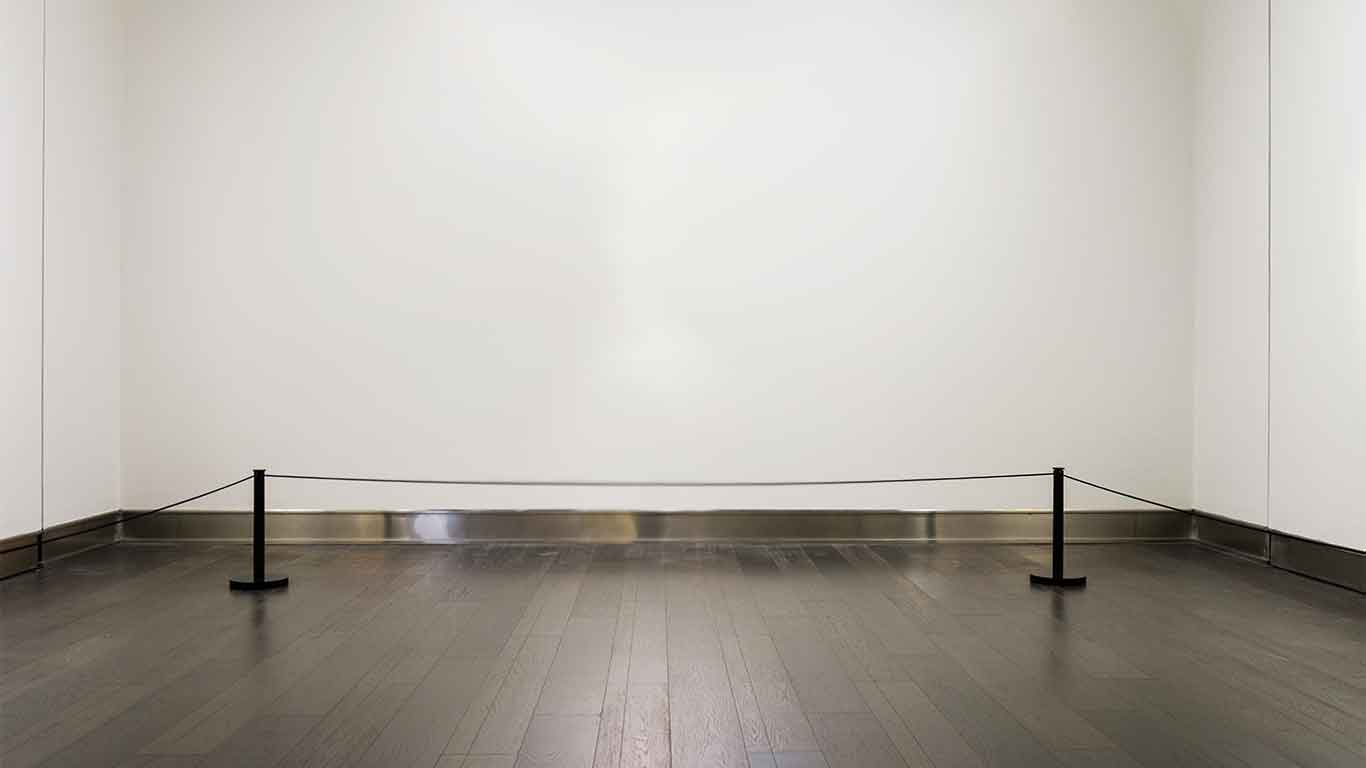
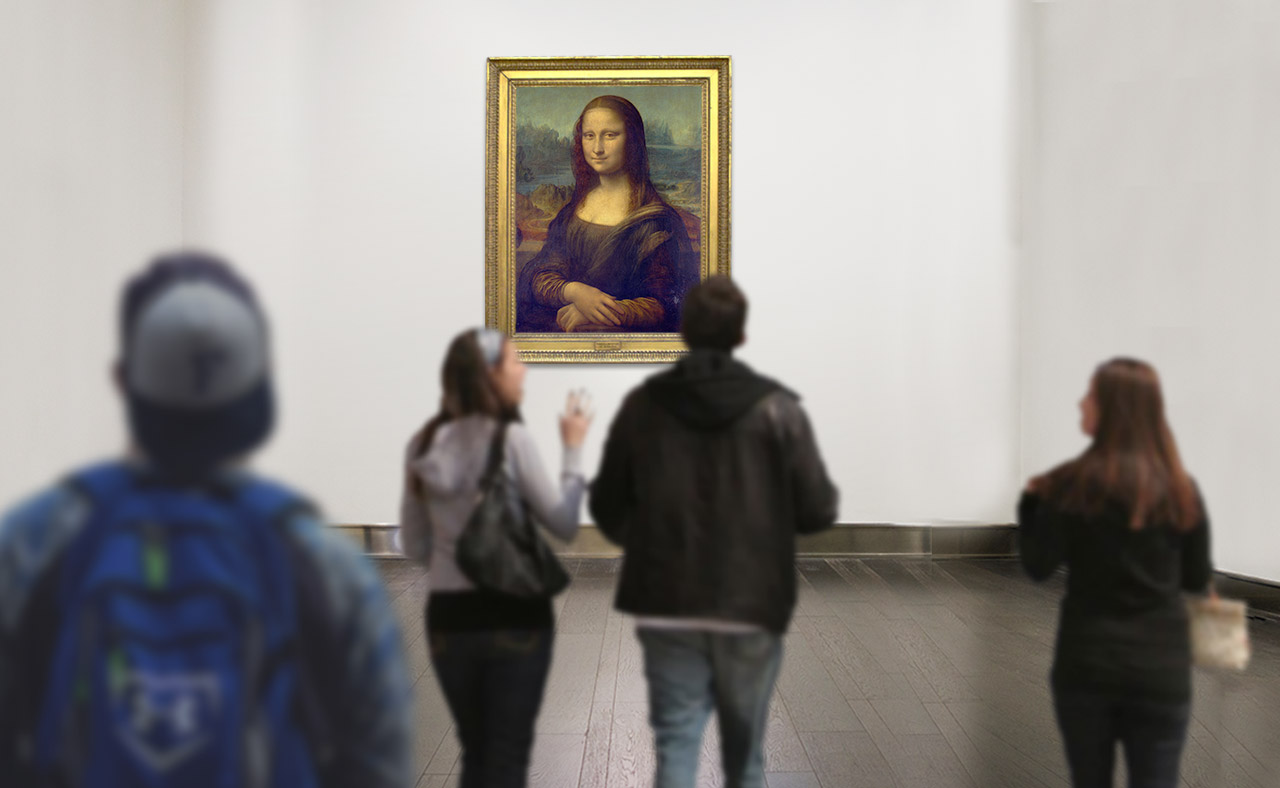
landing v7

diff --git a/css/museum.css b/css/museum.css
@@ -166,7 +166,7 @@ section article {
     width: 100%;
     height: 100vh;
     opacity:0;
-    transition:all 0.5s ease;
+    transition:all 0.8s ease;
     position:relative;
 }
 /*.concept:target,*/
@@ -174,7 +174,11 @@ section article {
     opacity:1;
 }
 
-.concept h2{
+.concept.footer{
+    height:auto;
+}
+
+.concept:not(.footer) h2{
      font-size: 45px;
      font-weight: 700;
      letter-spacing: 3px;
@@ -182,7 +186,7 @@ section article {
      color:#fff;
      text-align:center;
  }
-.concept h3{
+.concept:not(.footer) h3{
     font-size: 26px;
     font-weight: 500;
     letter-spacing: 3px;
@@ -196,36 +200,43 @@ section article {
     left:0;
     transform:translateY(-50%);
     width:100%;
+    text-align:center;
 }
 
+.concept .center a img{
+    width: 14px;
+    display: inline-block;
+    margin-left: 5px;
+}
 
-.concept p{
+.concept:not(.footer) p{
     font-size: 12px;
     line-height: 22px;
-    background: rgba(255,255,255,.8);
+    background: rgba(255,255,255,.9);
     padding: 30px;
     transition: all .5s ease;
-    width:33%;
-    position: fixed;
-    top:50%;
-    left:20%;
+    width:100%;
+    box-sizing:border-box;
 }
 
-.concept p:before{
-    display:block;
-    content:'+';
+.concept.content .center{
+    width:30%;
+    max-width:500px;
+    min-width:200px;
+    left:60%;
+    text-align:left;
+}
+
+.concept.content h2{
+    text-align:left;
     font-size:40px;
-    border:3px solid #292929;
-    text-align:center;
-    width:40px;
-    height:40px;
-    line-height:32px;
-    position:absolute;
-    top:0;
-    left:0;
-    box-sizing : border-box;
-    border-radius:50%;
-    transform:translate(-50%,-50%);
+    background:#000;
+    display: inline;
+    padding: 3px 10px;
+    line-height: 54px;
+}
+.concept.content p{
+    margin-top:20px;
 }
 
 .concept:before {
@@ -241,44 +252,31 @@ section article {
     left:0;
 }
 
+.concept#panel3.content .center,
+.concept#panel6.content .center{
+    left:auto;
+    right:60%;
+}
 
 #panel1:before{
     background-image: url(../images/backgroundv7.jpg);
 }
-
 #panel2:before {
     background-image: url(../images/museum.jpg);
 }
-
 #panel3:before {
     background-image: url(../images/museum2.jpg);
 }
-
 #panel4:before {
     background-image: url(../images/museum3.jpg);
 }
+#panel5:before {
+    background-image: url(../images/museum4.jpg);
+}
+#panel6:before {
+    background-image: url(../images/museum5.jpg);
+}
 
-
-#panel1:target p,
-#panel1.focus p{
-    top: 30%;
-    left:50%;
-}
-#panel2:target p,
-#panel2.focus p{
-    top: 30%;
-    left:50%;
-}
-#panel3:target p,
-#panel3.focus p{
-    top: 20%;
-    left:40%;
-}
-#panel4:target p,
-#panel4.focus p{
-    top: 60%;
-    left:10%;
-}
 
 
 
@@ -364,7 +362,19 @@ section article {
     color: #fff;
     text-decoration: none;
 }
-
+.button, button.button{
+	text-decoration:none;
+	color:#1007d1;
+	background:#fff;
+	display:inline-block;
+	border-radius:7px;
+	padding:12px 35px;
+	font-weight:600;
+	letter-spacing:1px;
+	font-size:18px;
+	margin-top:40px;
+	transition:all ease 0.3s;
+}
 #contact a.button {
     line-height: 20px;
     margin-top: 20px;
@@ -531,12 +541,14 @@ button.close {
     .concept {
         position: relative;
         height: 100vh;
+        opacity:1;
     }
 
-
-
-    #cookies {
-        top: 0;
+    .concept .center{
+        position:absolute;
+    }
+    .concept:before{
+        position:absolute;
     }
 
     #cookieChoiceInfo > div {

diff --git a/js/museum.js b/js/museum.js
@@ -1,11 +1,12 @@
 (function ($) {
 
     $('#panel1').addClass('focus');
-    $(window).scrollTop(0);
+
 
     var scrollTo = function(id){
         $('.concept.focus').removeClass('focus');
         $('.concept#panel'+id).addClass('focus');
+        if(panel == 7) $('.concept#panel6').addClass('focus');
 
         var offset = $('.concept#panel'+panel).offset().top;
         $(window).scrollTop(offset);
@@ -19,7 +20,7 @@
 
     var panel = 1, prevScroll = 0, stop = 0;
 
-    $("body").on("scroll mousewheel touchmove", function(e) {
+    $(document).on("scroll mousewheel touchmove", function(e) {
         //if ($(window).width() < 800) return;
 
 
@@ -31,9 +32,9 @@
         var st = $(this).scrollTop();
 
         console.log(prevScroll, st)
-        if(st >= prevScroll){
+        if(st > prevScroll){
             console.log("next");
-            nextSlide();
+             nextSlide();
         }
         else{
             console.log("PREV")
@@ -49,6 +50,7 @@
         e.preventDefault();
         e.stopPropagation();
 
+        console.log(">>>", $(this).index() + 1)
         scrollTo($(this).index() + 1);
     });
 
@@ -58,7 +60,8 @@
 
     var nextSlide = function(){
         panel ++;
-        if(panel > 4) panel = 1;
+        console.log(panel)
+        if(panel > 7) panel = 1;
         scrollTo(panel);
 
         stop = 1;

diff --git a/index.php b/index.php
@@ -72,30 +72,77 @@ require_once("assets/config.php");
        <div class="center">
            <h2>Opus<br>La boutique musée embarquée</h2>
            <h3>Procurez-vous des  souvenirs, tout en préservant les œuvres</h3>
+           <a href="/pro" class="button">Découvrir Opus <img src="<?php echo $urlBASE; ?>images/arrow-blue.svg" alt=""></a>
        </div>
     </article>
 
-    <article class="concept" id="panel2">
-        <h2>La joconde au musée</h2>
-        <p>L'oeuvre vous plaît ? Aucun problème. Scannez l'oeuvre grâce à votre application Opus et ajoutez là à vos
-            favoris. Vous aurez accès accès à des informations, dans la langue que vous souhaitez, sur le tableau ainsi
-            qu'une boutique embarquée réservée à celui-ci.</p>
+    <article class="concept content" id="panel2">
+        <div class="center">
+            <h2>Admirez la Joconde au musée.</h2>
+            <p>Vous flashez sur une oeuvre lors de votre visite au musée ? Pourquoi ne pas la ramener chez vous ?</p>
+        </div>
     </article>
 
-    <article class="concept" id="panel3">
-        <h2>La joconde en boutique</h2>
-        <p>Opus vous propose une sélection de représentations et de produits, que vous pouvez directement payer via
-            votre smartphone, depuis le musée ou même sur la terrasse d'un café, après la visite.</p>
+    <article class="concept content" id="panel3">
+        <div class="center">
+            <h2>Scannez-la grâce à Opus.</h2>
+            <p>À l’aide de votre smartphone, Opus détecte l’oeuvre qui vous a tapé dans l’oeil lorsque vous êtes à proximité de celle-ci.</p>
+        </div>
     </article>
 
-    <article class="concept" id="panel4">
-        <h2>La joconde chez vous</h2>
-        <p>Le système de livraison vous permet de ne pas vous encombrer. Recevez votre reproduction directement chez
-            vous et contemplez la à votre guise.</p>
+    <article class="concept content" id="panel4">
+        <div class="center">
+            <h2>Naviguez dans un catalogue spécifique à l’œuvre.</h2>
+            <p>Une fois l’oeuvre scannée, un catalogue de souvenirs dédié est mis à votre disposition.</p>
+        </div>
+    </article>
+
+    <article class="concept content" id="panel5">
+        <div class="center">
+            <h2>Faites votre sélection en toute tranquillité.</h2>
+            <p>Ajoutez les souvenirs à votre panier et commandez depuis l’application, sans passer par la boutique physique du musée.</p>
+        </div>
+    </article>
+
+    <article class="concept content" id="panel6">
+        <div class="center">
+            <h2>Retrouvez-la chez vous.</h2>
+            <p>En un clin d’oeil vos achats sont livrés chez vous. Fini la foule, les files d’attente et les bras chargés !</p>
+        </div>
+    </article>
+
+    <article class="footer concept" id="panel7">
+        <footer>
+            <div id="contact">
+                <h2>Vivez l'expérience,<br> rejoignez-nous sur les réseaux sociaux.</h2>
+                <ul class="social">
+                    <li><a href="https://www.facebook.com/GetOpusApp" target="_BLANK"><img
+                                    src="<?php echo $urlBASE; ?>images/fb.png" alt="lien facebook opus"
+                                    title="redirection facebook"/></a></li>
+                    <li><a href="https://twitter.com/GetOpus" target="_BLANK"><img src="<?php echo $urlBASE; ?>images/tw.png"
+                                                                                   alt="lien twitter opus"
+                                                                                   title="redirection twitter"/></a></li>
+                    <li><a href="https://www.instagram.com/getopusapp/" target="_BLANK"><img
+                                    src="<?php echo $urlBASE; ?>images/insta.png" alt="lien instagram opus"
+                                    title="redirection instagram"/></a></li>
+                    <!-- <li><a href="" target="_BLANK"><img src="images/yt.png" /></a></li> -->
+                    <!-- <li><a href="https://www.linkedin.com/in/opus-app-67347b145/" target="_BLANK"><img src="images/lkd.png" /></a></li> -->
+                    <li><a href="http://m.me/GetOpusApp" target="_BLANK"><img src="<?php echo $urlBASE; ?>images/messenger.png"
+                                                                              alt="live chat messenger avec Opus"
+                                                                              title="discussion opus"/></a></li>
+                </ul>
+
+                <h3>Vous êtes professionnel ?</h3>
+                <a href="/pro" class="button">En savoir plus</a>
+
+            </div>
+            <p>Opus - <?php echo COPYRIGHT; ?> © 2017</p>
+            <p><a href=""><?php echo MENTIONS; ?></a></p>
+        </footer>
     </article>
 
     <div class="bottom">
-        <h3><a href='#panel1'>•</a> <a href='#panel2'>•</a> <a href='#panel3'>•</a> <a href='#panel4'>•</a></h3>
+        <h3><a href='#panel1'>•</a> <a href='#panel2'>•</a> <a href='#panel3'>•</a> <a href='#panel4'>•</a> <a href='#panel5'>•</a> <a href='#panel6'>•</a></h3>
         <div class="arrow"></div>
     </div>
 
@@ -103,33 +150,7 @@ require_once("assets/config.php");
     <div class="" id="artwork-detail"></div> -->
 </main>
 
-<footer style=display:none;">
-    <div id="contact">
-        <h2>Vivez l'expérience,<br> rejoignez-nous sur les réseaux sociaux.</h2>
-        <ul class="social">
-            <li><a href="https://www.facebook.com/GetOpusApp" target="_BLANK"><img
-                            src="<?php echo $urlBASE; ?>images/fb.png" alt="lien facebook opus"
-                            title="redirection facebook"/></a></li>
-            <li><a href="https://twitter.com/GetOpus" target="_BLANK"><img src="<?php echo $urlBASE; ?>images/tw.png"
-                                                                           alt="lien twitter opus"
-                                                                           title="redirection twitter"/></a></li>
-            <li><a href="https://www.instagram.com/getopusapp/" target="_BLANK"><img
-                            src="<?php echo $urlBASE; ?>images/insta.png" alt="lien instagram opus"
-                            title="redirection instagram"/></a></li>
-            <!-- <li><a href="" target="_BLANK"><img src="images/yt.png" /></a></li> -->
-            <!-- <li><a href="https://www.linkedin.com/in/opus-app-67347b145/" target="_BLANK"><img src="images/lkd.png" /></a></li> -->
-            <li><a href="http://m.me/GetOpusApp" target="_BLANK"><img src="<?php echo $urlBASE; ?>images/messenger.png"
-                                                                      alt="live chat messenger avec Opus"
-                                                                      title="discussion opus"/></a></li>
-        </ul>
 
-        <h3>Vous êtes professionnel ?</h3>
-        <a href="/pro" class="button">En savoir plus</a>
-
-    </div>
-    <p>Opus - <?php echo COPYRIGHT; ?> © 2017</p>
-    <p><a href=""><?php echo MENTIONS; ?></a></p>
-</footer>
 
 
 <div class="overlay"></div>
